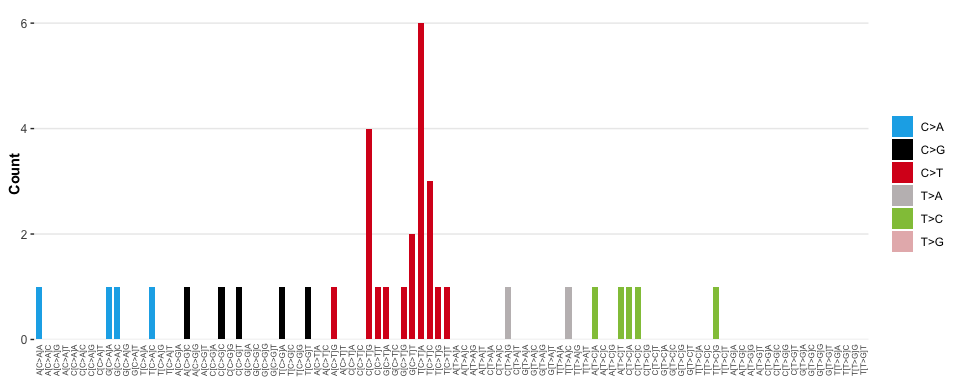
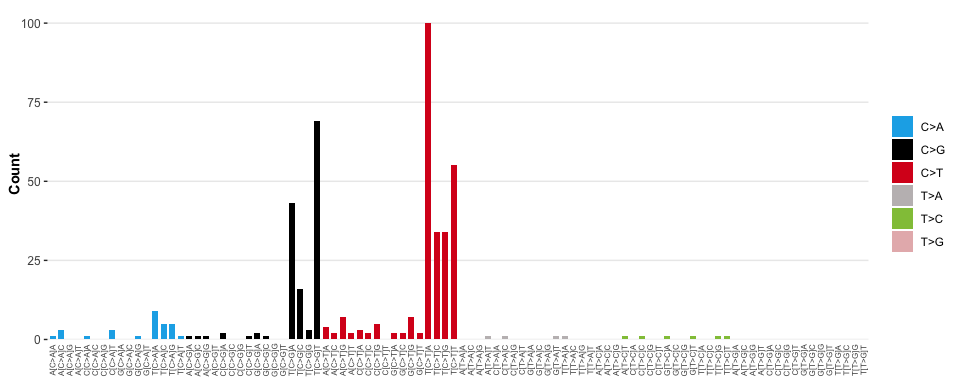
docs: chose better example for catalogue visualisation

diff --git a/README.md b/README.md
@@ -78,7 +78,7 @@ brca_catalalogue <- catalogues_load('BRCA')
 
 # Visualise an observed mutational catalogue
 sig_visualise(
-  brca_catalalogue[['TCGA-D8-A1XU-01A-11D-A14K-09']],
+  brca_catalalogue[['TCGA-BH-A18P-01A-11D-A12B-09']],
   class = "catalogue"
   )
 #> ✔ All channels matched perfectly to set [sbs_96]. Using this set for sort order
